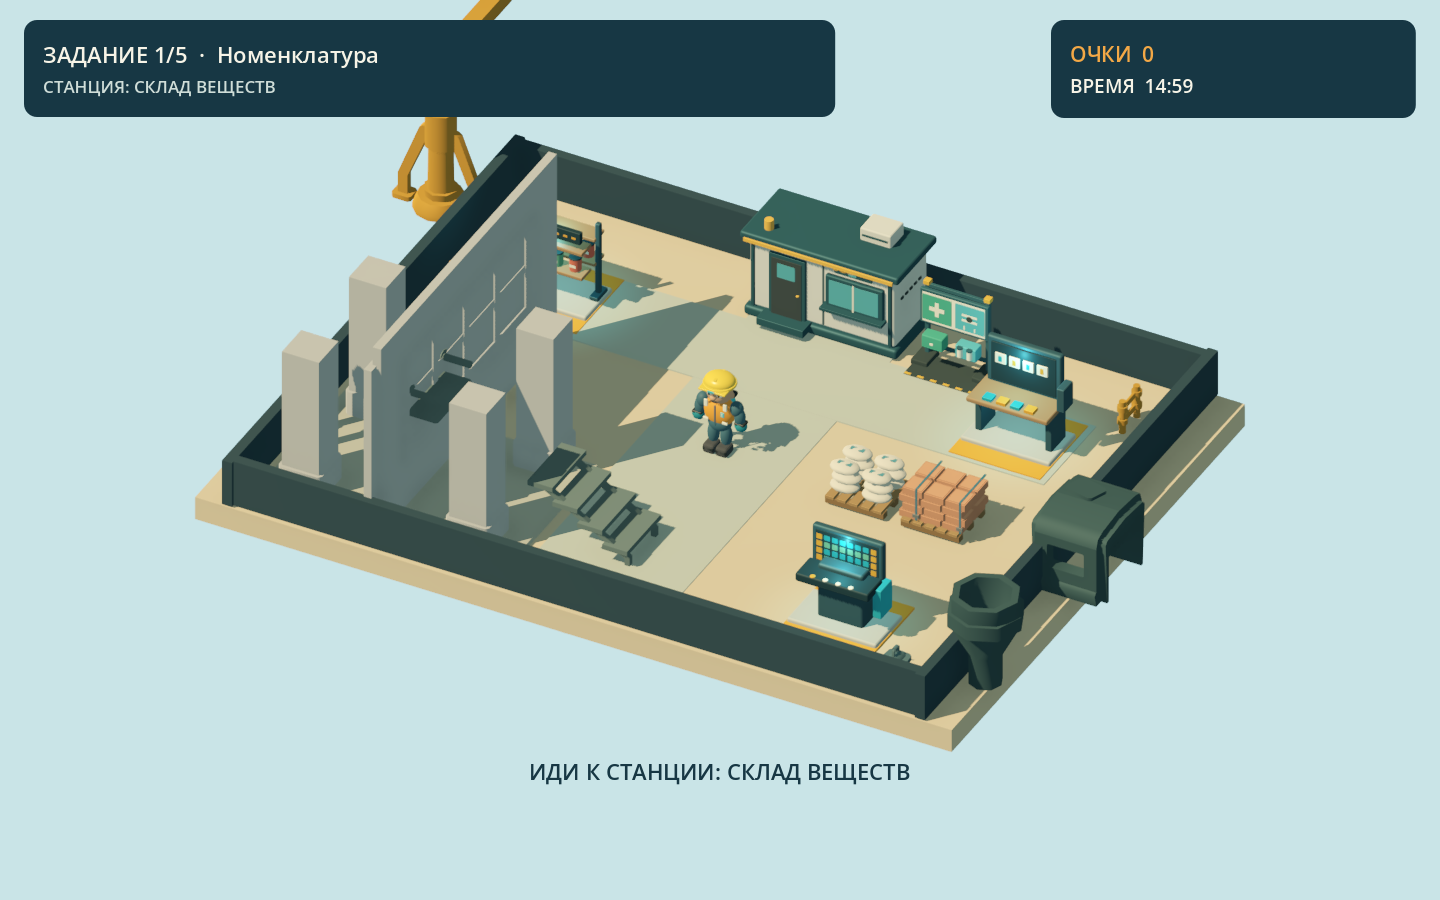
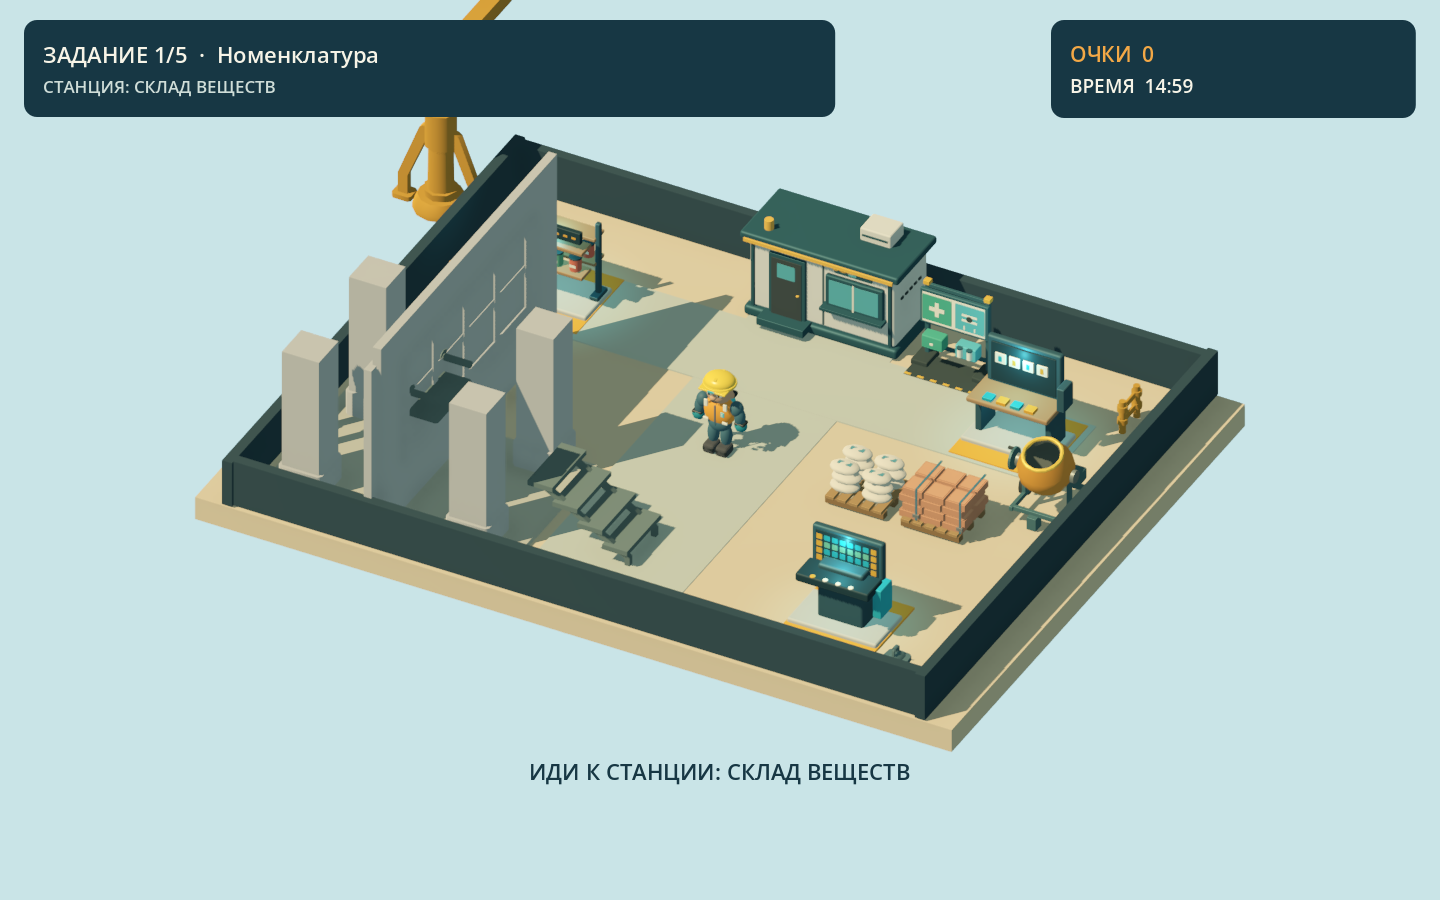
art: replace edge machinery with authored site mixer

Changed region(s): [[0.6562, 0.4667, 0.8125, 0.7778]]

diff --git a/tools/blender/build_site_mixer.py b/tools/blender/build_site_mixer.py
@@ -1,0 +1,159 @@
+"""Build a compact stylized construction mixer as an editable site prop."""
+
+from math import cos, pi, sin
+from pathlib import Path
+
+import bpy
+
+
+ROOT = Path(__file__).resolve().parents[2]
+OUTPUT = ROOT / "assets/models/environment"
+SOURCE = ROOT / "tools/blender/source"
+OUTPUT.mkdir(parents=True, exist_ok=True)
+SOURCE.mkdir(parents=True, exist_ok=True)
+
+bpy.ops.object.select_all(action="SELECT")
+bpy.ops.object.delete(use_global=False)
+
+
+def material(name, color, roughness=0.55, metallic=0.0):
+    result = bpy.data.materials.new(name)
+    result.diffuse_color = (*color, 1.0)
+    result.use_nodes = True
+    shader = result.node_tree.nodes.get("Principled BSDF")
+    shader.inputs["Base Color"].default_value = (*color, 1.0)
+    shader.inputs["Roughness"].default_value = roughness
+    shader.inputs["Metallic"].default_value = metallic
+    return result
+
+
+orange = material("mixer drum amber", (0.86, 0.38, 0.08), 0.45, 0.18)
+yellow = material("safety rim amber", (0.99, 0.65, 0.13), 0.47, 0.16)
+steel = material("painted steel chassis", (0.12, 0.27, 0.29), 0.48, 0.36)
+metal = material("galvanized fittings", (0.43, 0.52, 0.50), 0.38, 0.58)
+rubber = material("wheel rubber", (0.055, 0.075, 0.075), 0.84)
+recess = material("dark drum interior", (0.095, 0.12, 0.11), 0.95)
+
+
+def box(name, location, dimensions, surface, bevel=0.02):
+    bpy.ops.mesh.primitive_cube_add(size=1, location=location)
+    obj = bpy.context.object
+    obj.name = name
+    obj.dimensions = dimensions
+    bpy.ops.object.transform_apply(location=False, rotation=False, scale=True)
+    obj.data.materials.append(surface)
+    if bevel:
+        modifier = obj.modifiers.new("rolled edge", "BEVEL")
+        modifier.width = min(bevel, min(dimensions) * 0.28)
+        modifier.segments = 2
+        obj.modifiers.new("weighted normals", "WEIGHTED_NORMAL")
+    return obj
+
+
+def cylinder(name, location, radius, depth, surface, sides=24, rotation=None):
+    bpy.ops.mesh.primitive_cylinder_add(vertices=sides, radius=radius, depth=depth, location=location)
+    obj = bpy.context.object
+    obj.name = name
+    if rotation is not None:
+        obj.rotation_euler = rotation
+    obj.data.materials.append(surface)
+    return obj
+
+
+# A triangular steel chassis, axle and motor housing keep the drum credible.
+for x in (-0.56, 0.56):
+    box("longitudinal chassis rail", (x, 0.0, 0.36), (0.10, 1.55, 0.12), steel)
+    box("raised drum post", (x, -0.09, 0.81), (0.10, 0.12, 0.92), steel)
+    cylinder("wheel tyre", (x * 1.33, 0.38, 0.30), 0.29, 0.15, rubber, rotation=(0, pi / 2, 0))
+    cylinder("wheel hub", (x * 1.57, 0.38, 0.30), 0.105, 0.022, metal, rotation=(0, pi / 2, 0))
+box("front cross member", (0, -0.68, 0.36), (1.20, 0.10, 0.12), steel)
+box("rear cross member", (0, 0.69, 0.36), (1.20, 0.10, 0.12), steel)
+box("front landing foot", (0, -0.72, 0.17), (0.24, 0.28, 0.33), steel)
+box("motor enclosure", (0.58, 0.19, 1.02), (0.31, 0.48, 0.31), steel, 0.045)
+box("motor warning stripe", (0.58, -0.062, 1.07), (0.23, 0.012, 0.05), yellow, 0.005)
+cylinder("tilt axle", (0, -0.09, 1.24), 0.10, 1.26, metal, rotation=(0, pi / 2, 0))
+
+# Ring profiles form a flared vessel around a dark inset mouth.
+TILT = 0.35
+PIVOT = (0.0, -0.12, 1.24)
+RINGS = [(-0.48, 0.33), (-0.33, 0.51), (-0.05, 0.65), (0.20, 0.64), (0.53, 0.46)]
+SEGMENTS = 32
+
+
+def drum_point(radius, theta, height):
+    x = radius * cos(theta)
+    y = radius * sin(theta)
+    z = height
+    return (PIVOT[0] + x, PIVOT[1] + y * cos(TILT) - z * sin(TILT), PIVOT[2] + y * sin(TILT) + z * cos(TILT))
+
+
+vertices = []
+for height, radius in RINGS:
+    for index in range(SEGMENTS):
+        vertices.append(drum_point(radius, 2 * pi * index / SEGMENTS, height))
+faces = []
+for ring in range(len(RINGS) - 1):
+    for index in range(SEGMENTS):
+        next_index = (index + 1) % SEGMENTS
+        faces.append((ring * SEGMENTS + index, ring * SEGMENTS + next_index,
+                      (ring + 1) * SEGMENTS + next_index, (ring + 1) * SEGMENTS + index))
+faces.append(tuple(reversed(range(SEGMENTS))))
+mesh = bpy.data.meshes.new("flared drum mesh")
+mesh.from_pydata(vertices, [], faces)
+mesh.update()
+drum = bpy.data.objects.new("tilted mixing drum", mesh)
+bpy.context.collection.objects.link(drum)
+drum.data.materials.append(orange)
+for face in drum.data.polygons:
+    face.use_smooth = True
+
+inner_vertices = []
+for height, radius in ((0.54, 0.42), (0.27, 0.34)):
+    for index in range(SEGMENTS):
+        inner_vertices.append(drum_point(radius, 2 * pi * index / SEGMENTS, height))
+inner_faces = []
+for index in range(SEGMENTS):
+    next_index = (index + 1) % SEGMENTS
+    inner_faces.append((index, next_index, SEGMENTS + next_index, SEGMENTS + index))
+inner_mesh = bpy.data.meshes.new("dark inner drum wall")
+inner_mesh.from_pydata(inner_vertices, [], inner_faces)
+inner_mesh.update()
+inner_wall = bpy.data.objects.new("recessed drum interior", inner_mesh)
+bpy.context.collection.objects.link(inner_wall)
+inner_wall.data.materials.append(recess)
+mouth_center = drum_point(0, 0, 0.27)
+cylinder("shadowed vessel floor", mouth_center, 0.34, 0.014, recess, sides=32, rotation=(TILT, 0, 0))
+bpy.ops.mesh.primitive_torus_add(major_segments=32, minor_segments=8, location=drum_point(0, 0, 0.53), rotation=(TILT, 0, 0), major_radius=0.45, minor_radius=0.047)
+bpy.context.object.name = "reinforced pouring lip"
+bpy.context.object.data.materials.append(yellow)
+
+# Opposed steel side supports and a steering wheel explain the tilt mechanism.
+for x in (-0.69, 0.69):
+    cylinder("drum pivot housing", (x, -0.10, 1.24), 0.16, 0.09, metal, rotation=(0, pi / 2, 0))
+cylinder("tilt handwheel", (-0.82, -0.10, 1.24), 0.27, 0.06, steel, rotation=(0, pi / 2, 0))
+cylinder("handwheel grip", (-0.90, -0.10, 1.49), 0.043, 0.12, rubber, rotation=(0, pi / 2, 0))
+box("transport handle bar", (0, 0.81, 0.73), (0.78, 0.07, 0.07), metal, 0.012)
+for x in (-0.36, 0.36):
+    box("transport handle arm", (x, 0.72, 0.55), (0.06, 0.23, 0.37), steel, 0.012)
+
+for obj in bpy.data.objects:
+    if obj.type == "MESH":
+        for modifier in list(obj.modifiers):
+            bpy.context.view_layer.objects.active = obj
+            bpy.ops.object.modifier_apply(modifier=modifier.name)
+
+bpy.ops.wm.save_as_mainfile(filepath=str(SOURCE / "site_mixer.blend"))
+for surface in (orange, yellow, steel, metal, rubber, recess):
+    pieces = [
+        obj for obj in bpy.data.objects
+        if obj.type == "MESH" and obj.data.materials and obj.data.materials[0] == surface
+    ]
+    bpy.ops.object.select_all(action="DESELECT")
+    for piece in pieces:
+        piece.select_set(True)
+    bpy.context.view_layer.objects.active = pieces[0]
+    if len(pieces) > 1:
+        bpy.ops.object.join()
+
+bpy.ops.export_scene.gltf(filepath=str(OUTPUT / "site_mixer.glb"), export_format="GLB", export_apply=True)
+print("SITE_MIXER_EXPORT", OUTPUT / "site_mixer.glb")

diff --git a/PROGRESS.md b/PROGRESS.md
@@ -21,6 +21,7 @@ Phases 3, 7 and 8 — environment, UI, visual and audio quality pass for the fir
 - Authored a beveled, six-material site laboratory cabin in Blender with door, glazing, analyzer silhouettes, roof equipment and safety trim. Imported it as a rear landmark with a box collision proxy. Blender Agent Studio geometry inspection passed, and its six-view contact sheet and Godot site capture were reviewed.
 - Authored cement-sack and strapped-brick pallets in Blender. Exported eight material-grouped meshes with an editable `.blend` source; added a collision proxy and reviewed the six-view contact sheet and updated site capture. Walked from spawn to all three stations in a physics route smoke test.
 - Authored a freestanding first-aid and eyewash safety point in Blender beside the laboratory cabin. Six material-grouped meshes, front pictograms, lower supply cases and a collision proxy passed multi-angle, import, geometry and route review.
+- Replaced two abstract off-perimeter machinery props with an original tilted-drum mixer inside the right boundary. Kept editable Blender source, a six-view review, and a simple frame-and-drum collision proxy.
 - Added a complete five-task round smoke test that checks station interactions, results and saved progress using an isolated test save.
 - Configured a universal macOS release preset and built `builds/macos/ChemSite.app`. Launched its arm64 release binary outside the editor and captured its menu.
 - Captured and visually reviewed the menu, site, station panel, formula builder and exported release menu under `artifacts/`.
@@ -31,15 +32,15 @@ Improve the site composition, lighting, visual feedback and UI so the native sli
 
 ## Next task
 
-Improve framing around the right-edge machinery. Then review character and station silhouettes from multiple camera angles.
+Improve construction depth on the left build pad, then review character and station silhouettes from multiple camera angles.
 
 ## Last verification
 
-2026-09-24: Godot import, complete-round, collision and all-three-station walking-route smoke scripts passed with the safety point in place. Blender Agent Studio inspection found six meshes, six materials, 3,324 triangles, zero degenerate faces, zero zero-length edges and a passing hard gate. The six-view contact sheet and 1440×900 Godot site capture were reviewed. The earlier material cache also passed geometry inspection with eight meshes and 18,232 triangles. The macOS release export was refreshed and its app binary launched headless.
+2026-09-24: Godot import, complete-round, collision and all-three-station walking-route smoke scripts passed with the mixer in place. Blender Agent Studio inspection found six meshes, six materials, 3,110 triangles, zero degenerate faces, zero zero-length edges and a passing hard gate. The six-view contact sheet and 1440×900 Godot site capture were reviewed. The earlier safety point and material cache also passed geometry inspection. The macOS release export was refreshed and its app binary launched headless with the mixer in place.
 
 ## Known issues
 
-- The laboratory cabin, material cache and safety point improve the site silhouette; edge machinery still needs authored dressing and framing work.
+- The laboratory cabin, material cache, safety point and mixer improve the site silhouette; the left build pad still needs construction depth and more coherent unfinished-building detail.
 - Station animations, chemistry-specific VFX, footstep/machinery ambience and accessibility controls remain pending. Answer feedback and audio settings are present.
 - Character animation transitions work in the controller, but close-up deformation and timing need visual review.
 - The macOS release is unsigned and unnotarized; a complete five-task playtest in the exported app remains open. Windows export is pending.

diff --git a/docs/ASSET_SELECTION.md b/docs/ASSET_SELECTION.md
@@ -14,7 +14,8 @@ The Godot vertical slice starts from the CC0 Kenney Factory Kit 3.0 and Building
 | Project-authored `tools/blender/build_site_cabin.py` | `assets/models/environment/site_cabin.glb` | Rear laboratory landmark and active-site story | Final sign treatment and lighting review |
 | Project-authored `tools/blender/build_material_cache.py` | `assets/models/environment/material_cache.glb` | Palletized cement and brick storage | Eight material-grouped meshes; route and collision review complete |
 | Project-authored `tools/blender/build_safety_point.py` | `assets/models/environment/safety_point.glb` | Freestanding first-aid and eyewash landmark | Six material-grouped meshes; pictogram and collision review complete |
+| Project-authored `tools/blender/build_site_mixer.py` | `assets/models/environment/site_mixer.glb` | Right-side construction machinery landmark | Six material-grouped meshes; drum, frame and collision review complete |
 
 The browser's merged GLB libraries remain in `legacy-web/public/assets/models/` for reference. The source packs remain under `assets-source/` and are excluded from Godot import with `.gdignore`.
 
-Standardized six-view reviews are saved at `docs/screenshots/site-cabin-contact-sheet.png`, `docs/screenshots/material-cache-contact-sheet.png` and `docs/screenshots/safety-point-contact-sheet.png`.
+Standardized six-view reviews are saved at `docs/screenshots/site-cabin-contact-sheet.png`, `docs/screenshots/material-cache-contact-sheet.png`, `docs/screenshots/safety-point-contact-sheet.png` and `docs/screenshots/site-mixer-contact-sheet.png`.

diff --git a/docs/ART_DIRECTION.md b/docs/ART_DIRECTION.md
@@ -6,4 +6,4 @@ Use softened edges, readable silhouettes, deliberate material families, and comp
 
 The player reads as a young site chemist through an oversized helmet, safety vest, gloves, boots, and cyan chemistry pack. From the gameplay camera, the helmet and vest must remain distinct at normal zoom. Native Control UI uses large Russian labels and concise work orders.
 
-Current screenshot evidence: `docs/screenshots/vertical-slice-site.png`. The original site laboratory cabin anchors the rear edge; the cement-and-brick pallet cluster gives the right-hand work area a construction identity while preserving the periodic terminal approach. A first-aid and eyewash point marks the rear safety area. The rigged character and station silhouettes are in place. Outstanding art work: right-edge machinery framing, PBR material refinement, multiview animation review, contact shadows, station VFX and ambience.
+Current screenshot evidence: `docs/screenshots/vertical-slice-site.png`. The original site laboratory cabin anchors the rear edge; the cement-and-brick pallet cluster and a portable mixer give the right-hand work area a construction identity while preserving the periodic terminal approach. A first-aid and eyewash point marks the rear safety area. The rigged character and station silhouettes are in place. Outstanding art work: left-side construction depth, PBR material refinement, multiview animation review, contact shadows, station VFX and ambience.

diff --git a/docs/ASSET_LICENSES.md b/docs/ASSET_LICENSES.md
@@ -9,6 +9,7 @@
 | Site laboratory cabin | ChemSite project-authored Blender script | Original project asset | `tools/blender/build_site_cabin.py` | `assets/models/environment/site_cabin.glb` | Blender 5.2.2 export |
 | Cement and brick material cache | ChemSite project-authored Blender script | Original project asset | `tools/blender/build_material_cache.py` | `assets/models/environment/material_cache.glb` | Blender 5.2.2 export |
 | First-aid and eyewash safety point | ChemSite project-authored Blender script | Original project asset | `tools/blender/build_safety_point.py` | `assets/models/environment/safety_point.glb` | Blender 5.2.2 export |
+| Portable site mixer | ChemSite project-authored Blender script | Original project asset | `tools/blender/build_site_mixer.py` | `assets/models/environment/site_mixer.glb` | Blender 5.2.2 export |
 | Menu illustration | ChemSite project-authored SVG | Original project asset | `assets/ui/menu_illustration.svg` | `assets/ui/menu_illustration.svg` | Native Godot UI |
 | Music track | ChemSite browser prototype source | Existing project asset | `legacy-web/public/assets/audio/lofi-1.mp3` | `assets/audio/lofi-1.mp3` | Copied for native use |
 | Interaction and answer cues | ChemSite project-authored synthesis | Original project assets | `tools/audio/render_cues.py` | `assets/audio/*.wav` | Generated WAV files |

diff --git a/tools/blender/source/site_mixer_reference_notes.md b/tools/blender/source/site_mixer_reference_notes.md
@@ -1,0 +1,11 @@
+# Site mixer modeling notes
+
+The project asset uses original geometry and materials. External equipment images informed the working silhouette and mechanical relationships; no source images or labels are embedded.
+
+| Reference | Observed relationship | Applied interpretation |
+| --- | --- | --- |
+| [Deper portable mixer](https://deper.com.ar/categorias/mezcla-de-materiales/8) | A tilted orange drum rests on a small wheeled steel chassis. | Flared drum, paired wheels and low frame. |
+| [Deper compact mixer](https://deper.com.ar/productos/hormigonera-compact-150/6) | The front opening, side pivot and motor housing read from three-quarter views. | Recessed mouth, side axle housing and protected motor box. |
+| [Paramount Browns mixer](https://www.paramountbrowns.com.au/products/deluxe-electric-cement-mixer-3-5cuft-cmi40e/) | A handwheel and front landing support explain how the drum tilts. | Side handwheel and foot under the chassis. |
+
+The asset is sized for the fixed isometric site camera and keeps the opening visible from above. The native collision proxy covers its frame and drum as a single solid obstacle.

diff --git a/TODO.md b/TODO.md
@@ -13,7 +13,7 @@
 
 ## Current phase — Phase 3/7/8: vertical-slice quality pass
 
-- [ ] Author denser construction and chemistry clusters with coherent landmarks, paths and collision proxies; the Blender laboratory cabin, material cache and safety point now define the rear and right-hand work areas
+- [ ] Author denser construction and chemistry clusters with coherent landmarks, paths and collision proxies; the Blender laboratory cabin, material cache, safety point and mixer now define the rear and right-hand work areas
 - [ ] Refine station and character materials, scale, readability, rig deformation and animation timing from multiple camera angles
 - [ ] Add chemistry VFX and restrained environment motion, plus footstep and machinery ambience
 - [ ] Complete production HUD hierarchy, formula typography, accessibility, score/XP/combo presentation and Career/Practice menu modes; audio settings and keyboard focus are in place
